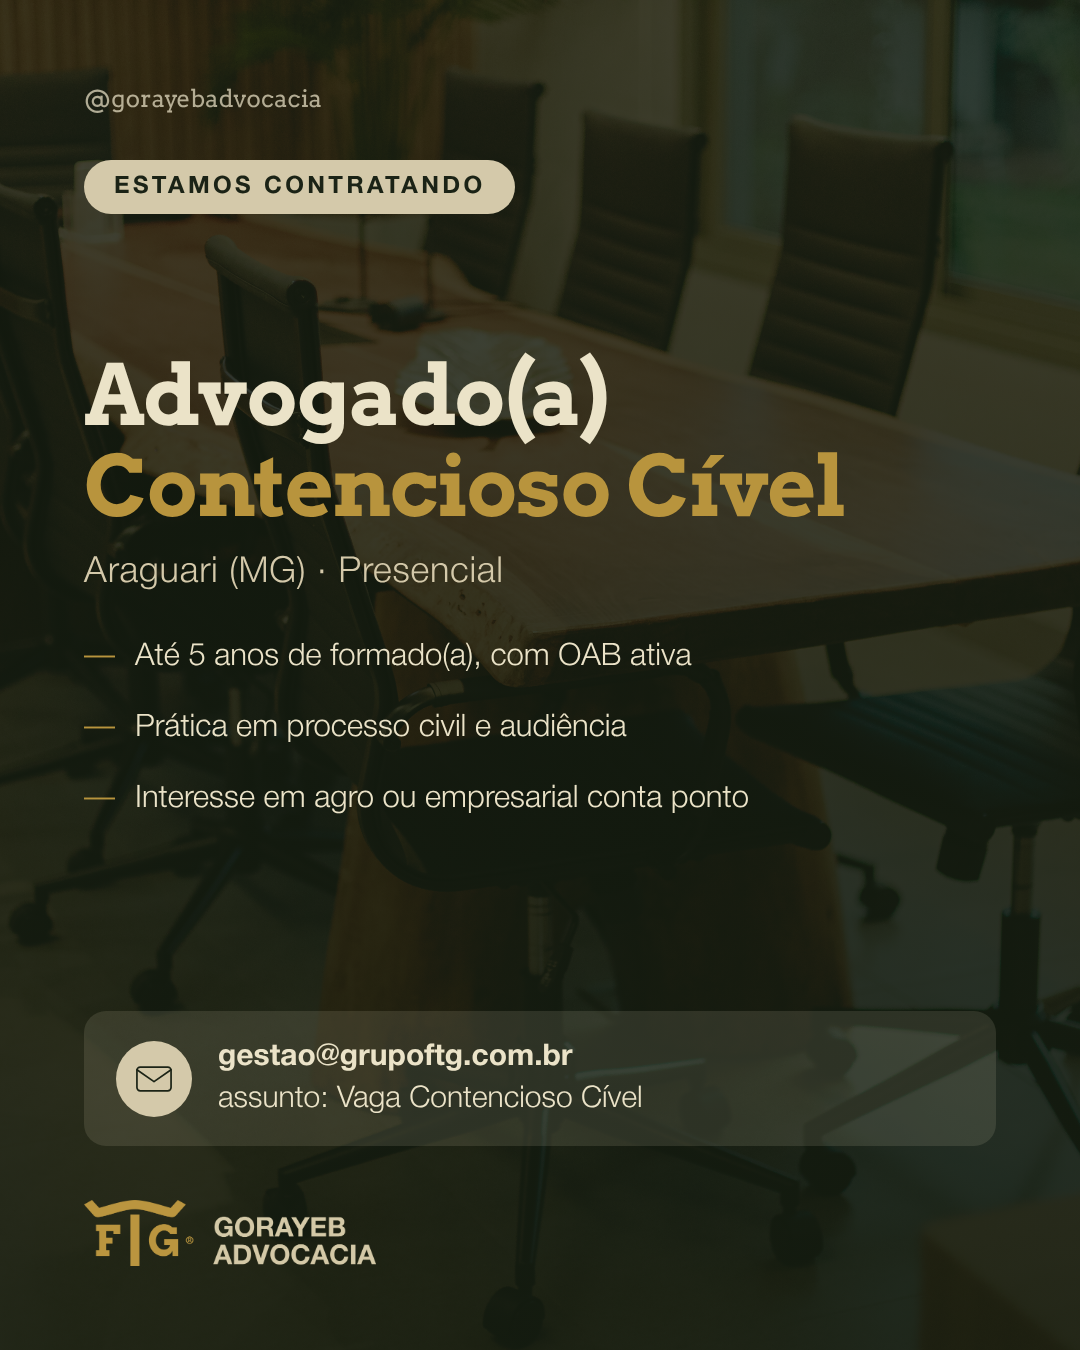
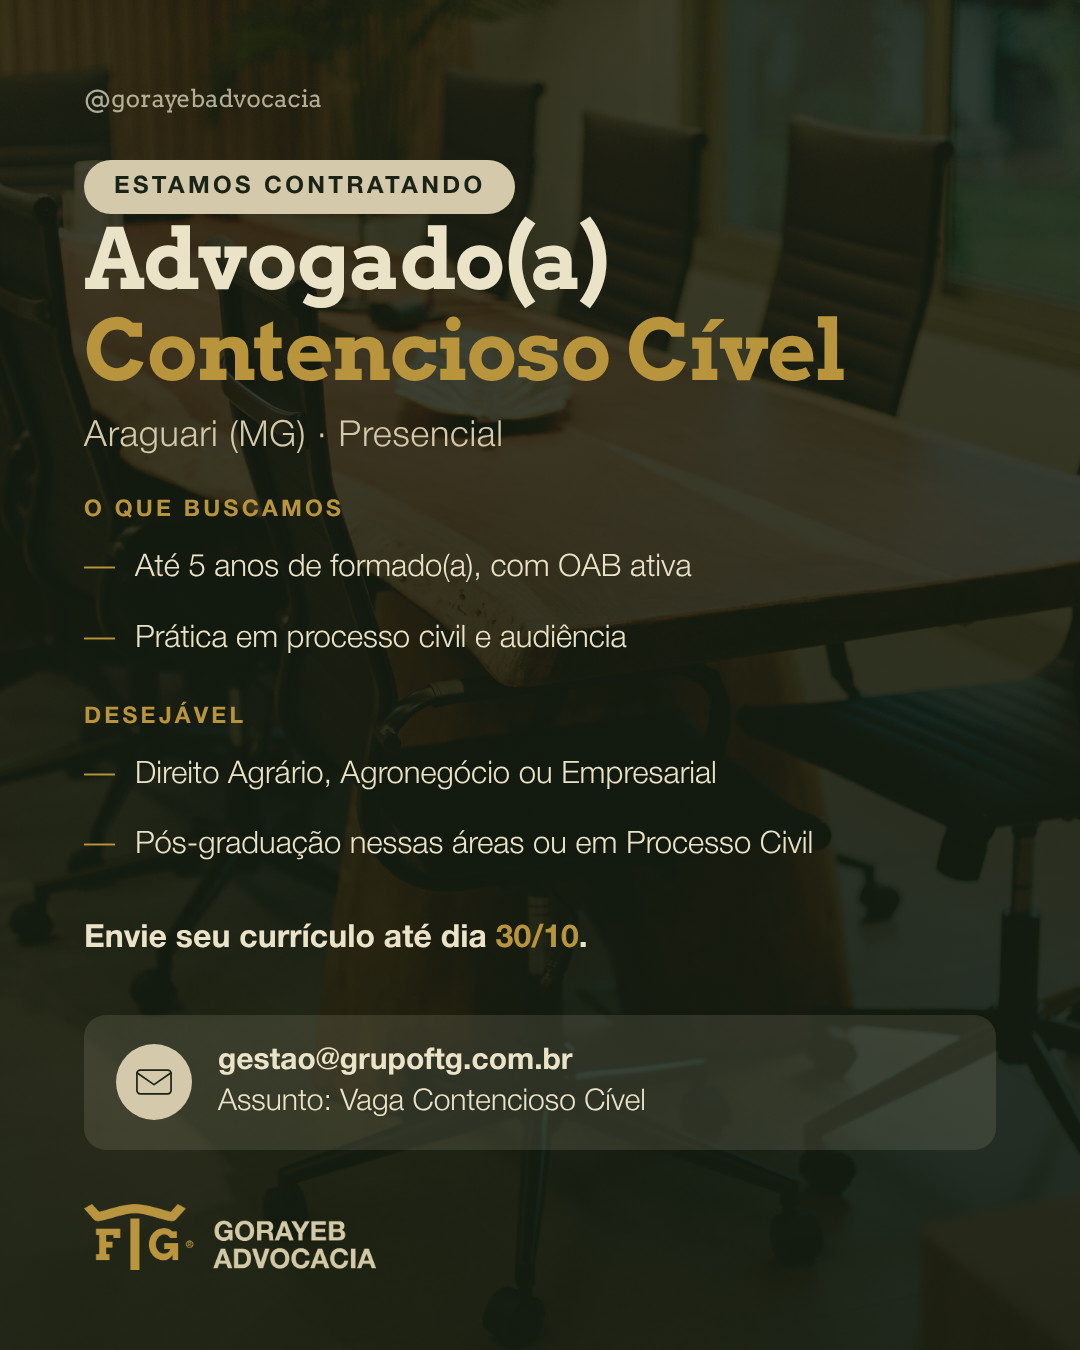
Correções da Dra. Elisa na vaga, e o prazo confirmado
Duas regras novas, que valem daqui pra frente:

- "conta ponto" não se usa em anúncio de vaga. Diferencial vai sob o
  rótulo Desejável, que virou um bloco próprio nas duas peças.
- "agro" nunca abreviado, sempre Agronegócio. Apliquei também na
  recuperação judicial, que sai dia 22 e ainda dava tempo. A escala 6x1
  está publicada desde 16/10 com "agro" na capa e no gráfico e fica
  como está.

Prazo confirmado em 30/10. Campo novo no tipo `vaga`: `chamada`, a linha
de ação logo acima da caixa do e-mail, com a data em dourado. O assunto
do e-mail passou a aparecer com inicial maiúscula, como ela escreveu.

Claude-Session: https://claude.ai/code/session_01PNm9HeejNLCDTQ5J6fF2k9

diff --git a/docs/gorayeb/template/base.css b/docs/gorayeb/template/base.css
@@ -740,5 +740,15 @@
 .vaga-remate {
   font-family: "HelveticaNeue", Helvetica, Arial, sans-serif;
   font-weight: 300; font-size: 28px; line-height: 1.46;
-  color: var(--areia); max-width: 26em; flex: none; margin-top: 10px;
+  color: var(--areia); max-width: 26em; flex: none; margin-top: 46px;
 }
+
+/* a chamada de envio: é o que a pessoa tem que fazer, com o prazo em dourado.
+   Vem colada na caixa do e-mail, que as duas são o mesmo gesto. */
+.vaga-chamada {
+  font-family: "HelveticaNeue", Helvetica, Arial, sans-serif;
+  font-weight: 700; font-size: 32px; line-height: 1.34;
+  flex: none; margin-top: 50px;
+}
+.vaga-chamada strong { color: var(--dourado); }
+.vaga-chamada + .caixa-dado { margin-top: 22px; }

diff --git a/docs/gorayeb/diario.md b/docs/gorayeb/diario.md
@@ -75,9 +75,10 @@ de Araguari a 30 minutos de Uberlândia.
 Foto é do banco da própria Gorayeb, a sala de reuniões vazia. É a exceção à regra
 de cenário nacional: em vaga, quem vai se candidatar quer ver onde trabalharia.
 
-**O prazo não entrou.** O texto diz "até 16/10/2026" numa mensagem de 21/10. Ou
-era 16/11, ou veio de rascunho antigo. O campo está pronto no rodapé, é só a
-Elisa confirmar.
+**O prazo.** O texto original dizia "até 16/10/2026" numa mensagem de 21/10. Era
+data vencida, ficou de fora da arte. A Elisa confirmou 30/10 no mesmo dia e a
+chamada entrou nas duas peças: "Envie seu currículo até dia 30/10", com a data em
+dourado, logo acima da caixa do e-mail.
 
 Arquivo: `carrosseis/vaga-contencioso-civel.json`
 Status: **entregue**, aguardando revisão.
@@ -271,3 +272,11 @@ Tipos de slide, figuras e ícones estão na tabela do `README.md`.
   no Excel que ela saiu.
 - Revisão do Victor: o stories podia levar bem mais informação. O tipo `vaga`
   ganhou `blocos` (subtítulo dourado + lista) e `remate`. O feed continua enxuto.
+- Duas correções da Dra. Elisa, que viraram regra: **"conta ponto" não se usa** em
+  anúncio de vaga, diferencial vai sob o rótulo **Desejável**; e **"agro" nunca
+  abreviado**, sempre **Agronegócio**.
+- A regra do Agronegócio foi aplicada também na recuperação judicial, que sai dia
+  22 e ainda dava tempo. A escala 6x1 já está publicada desde 16/10 com "Trabalho
+  no agro." na capa e "dos contratos do agro" no gráfico: fica como está, a regra
+  vale daqui pra frente.
+- Prazo da vaga confirmado em 30/10. Campo novo no tipo `vaga`: `chamada`.

diff --git a/docs/gorayeb/formato-01.md b/docs/gorayeb/formato-01.md
@@ -28,6 +28,8 @@ Cada uma veio de um pedido dele na revisão. Não voltar atrás sem ele mandar.
 | **Tamanho** | 5 a 7 slides no padrão. Até 10 quando a pauta é técnica e pede texto corrido, como mudança de lei. |
 | **Véu sobre foto** | O `foto-texto` leva véu próprio, mais fechado na faixa do meio. O véu padrão fecha só no pé e deixa o parágrafo brigando com a imagem. |
 | **Rosto em foto de banco** | Close de gente identificável não entra. Foto de Pinterest com rosto reconhecível em post comercial é risco sem retorno. Multidão de longe, de costas ou em contraluz, pode. |
+| **"Agro"** | **Nunca abreviado.** Sempre **Agronegócio**, na arte e na legenda. Regra da Dra. Elisa, 21/10. |
+| **"Conta ponto"** | Fora. Diferencial de vaga vai sob o rótulo **Desejável**. Regra da Dra. Elisa, 21/10. |
 | **Barra de progresso** | **Não usar.** Existe no template (`progresso: true`), mas ficou de fora por decisão do Victor. |
 
 ## A capa
@@ -180,7 +182,8 @@ O stories ganha margem extra em cima e embaixo, que é onde o Instagram põe a
 própria interface. Nada de texto encosta ali.
 
 **Prazo só entra se estiver certo.** Data de inscrição vencida ou que não bate com
-a data do envio fica de fora até o cliente confirmar.
+a data do envio fica de fora até o cliente confirmar. Confirmada, ela vira a
+`chamada`: uma linha de ação logo acima da caixa do e-mail, com a data em dourado.
 
 ## Como entrego
 
